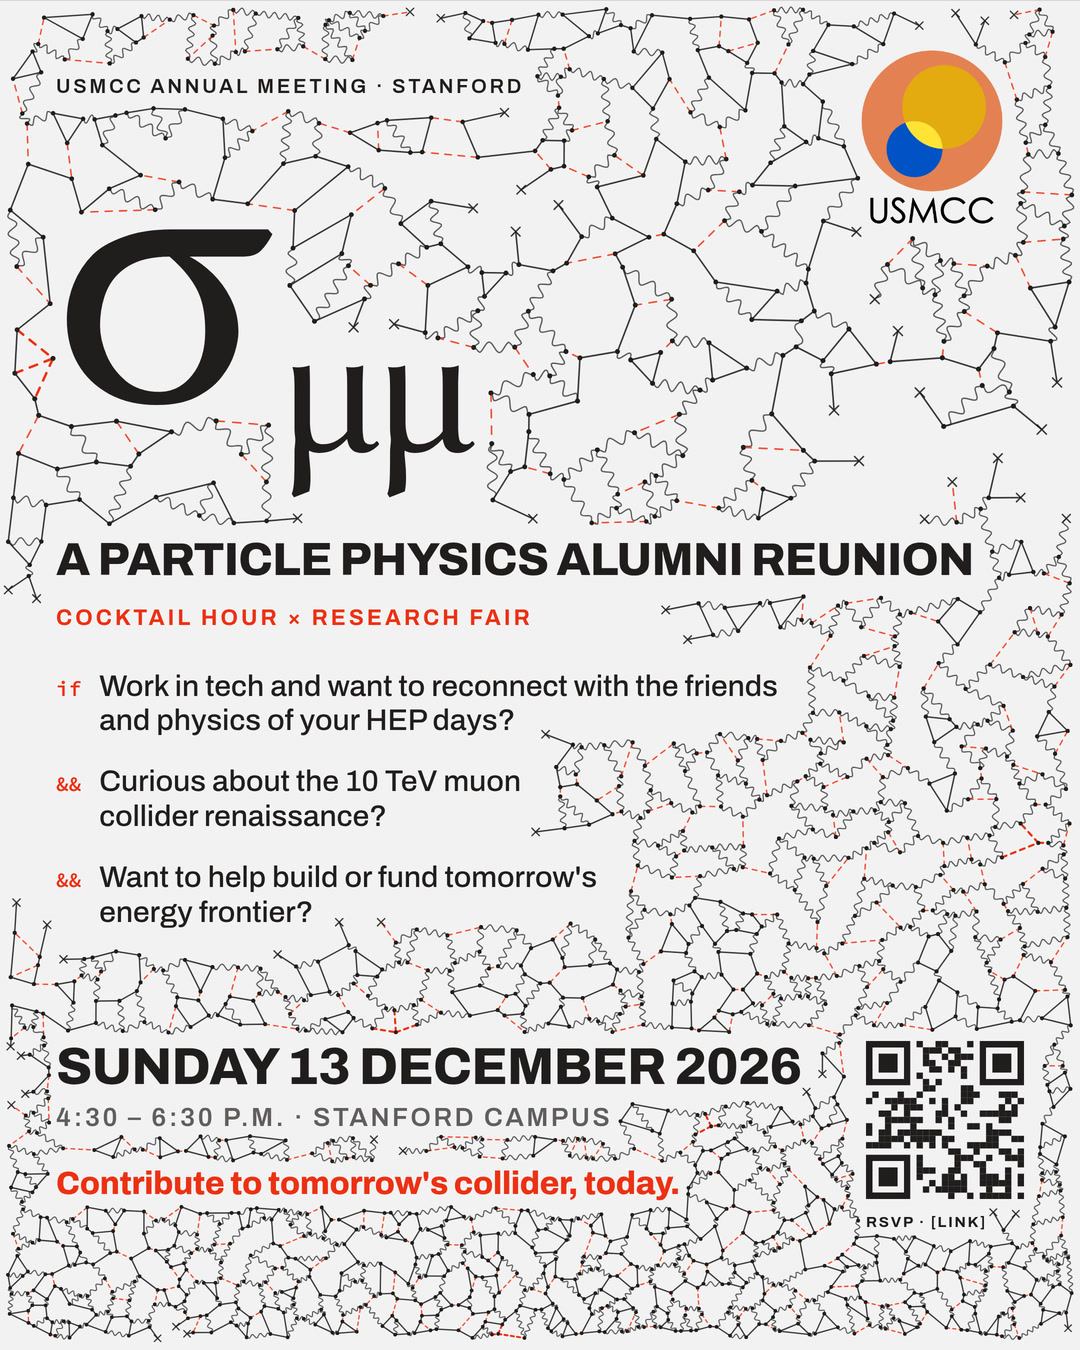
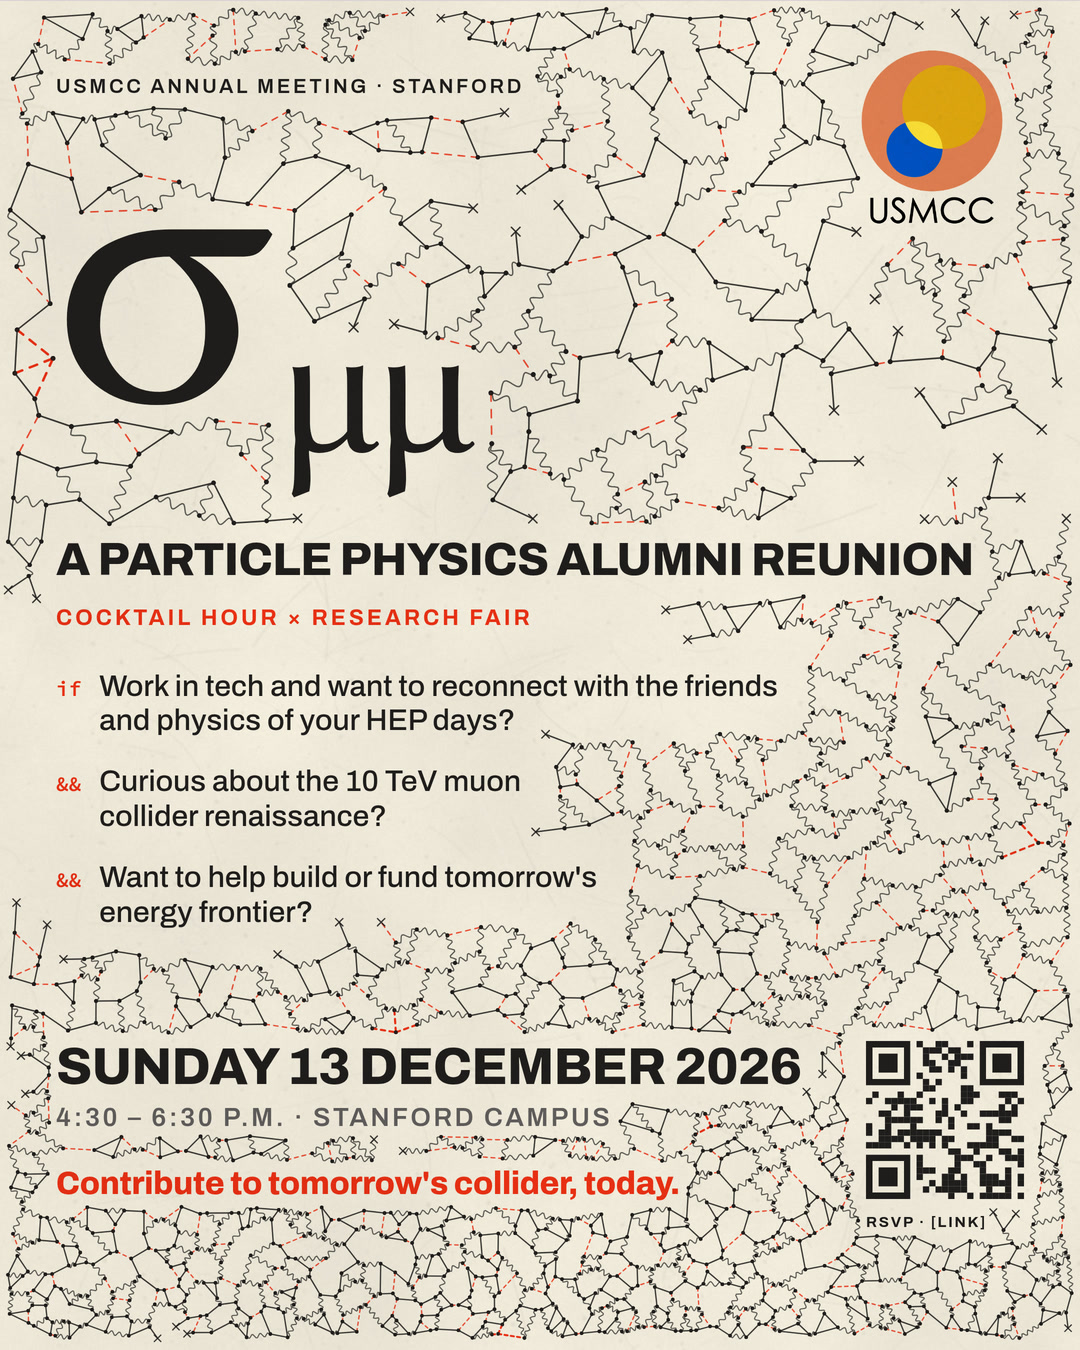
Cream stock with a paper texture over the whole sheet
Background goes from the neutral near-white #f3f2f2 to cream #f5f0e1, and
design/paper-grain.png -- mottling, fibres and creases, already in the
original canvas export but never wired up -- now lies over both boards on a
multiply layer at 62%. Bare paper measures RGB(225,218,202); type and rules
stay crisp under it.

Instagram jpgs only; tabloid PNG/PDF and the MP4 are still behind.

Claude-Session: https://claude.ai/code/session_01BjD9eBbTwFN6BRZeeU9uPk

diff --git a/design/Sigma Mu Mu Network.dc.html b/design/Sigma Mu Mu Network.dc.html
@@ -64,6 +64,7 @@ a:hover { color: var(--color-accent); }
 
 <div data-zone="text" style="position:absolute;left:874px;top:1502px;width:168px;font-size:11px;font-weight:700;letter-spacing:.14em;text-transform:uppercase;z-index:2">RSVP · [link]</div>
 <div style="position:absolute;inset:0;z-index:2;pointer-events:none"><canvas id="t-qr" style="position:absolute;left:0;top:0;width:100%;height:100%"></canvas></div>
+<div style="position:absolute;inset:0;z-index:4;pointer-events:none;mix-blend-mode:multiply;opacity:.62;background:url('paper-grain.png') center/cover no-repeat"></div>
 <canvas id="t-top" style="position:absolute;left:0;top:0;width:1100px;height:1700px;mix-blend-mode:multiply;z-index:3;pointer-events:none"></canvas>
 </div>
 </div>
@@ -101,6 +102,7 @@ a:hover { color: var(--color-accent); }
 
 <div data-zone="text" style="position:absolute;left:866px;top:1210px;width:170px;font-size:15px;font-weight:700;letter-spacing:.12em;text-transform:uppercase;z-index:2">RSVP · [link]</div>
 <div style="position:absolute;inset:0;z-index:2;pointer-events:none"><canvas id="i-qr" style="position:absolute;left:0;top:0;width:100%;height:100%"></canvas></div>
+<div style="position:absolute;inset:0;z-index:4;pointer-events:none;mix-blend-mode:multiply;opacity:.62;background:url('paper-grain.png') center/cover no-repeat"></div>
 <canvas id="i-top" style="position:absolute;left:0;top:0;width:1080px;height:1350px;mix-blend-mode:multiply;z-index:3;pointer-events:none"></canvas>
 </div>
 </div>

diff --git a/design/_ds/modernist-5373e003-9a82-41d2-b26a-771ed760b25f/styles.css b/design/_ds/modernist-5373e003-9a82-41d2-b26a-771ed760b25f/styles.css
@@ -2,7 +2,7 @@
 @import url('../../assets/fonts/fonts.css');
 
 :root {
-  --color-bg: #f3f2f2;
+  --color-bg: #f5f0e1;
   --color-surface: #eae9e9;
   --color-text: #201e1d;
   --color-accent: #ec3013;

diff --git a/README.md b/README.md
@@ -35,9 +35,15 @@ files are earlier explorations from the same canvas.
 Fonts, the USMCC logo and the DC runtime's React build are vendored under
 `design/assets/`, so a sheet renders identically with no network access.
 
+The sheet is cream (`--color-bg: #f5f0e1` in the design system) with
+`design/paper-grain.png` laid over the whole board on a multiply layer at 62%
+— mottling, fibres and creases, so the ground reads as stock rather than a
+flat fill. That texture shipped in the original canvas export and was never
+wired up; using it avoids sourcing one with unclear licensing.
+
 Canvas controls (Claude Design's properties panel): `density`, `accent`,
-`animated`, and `inkBite` — a paper-texture pass, off by default; raise it if
-you ever want the sheet roughed up again.
+`animated`, and `inkBite` — a procedural speckle pass, off by default and
+largely superseded by the paper overlay.
 
 ### Every vertex is a real Standard Model vertex
 
